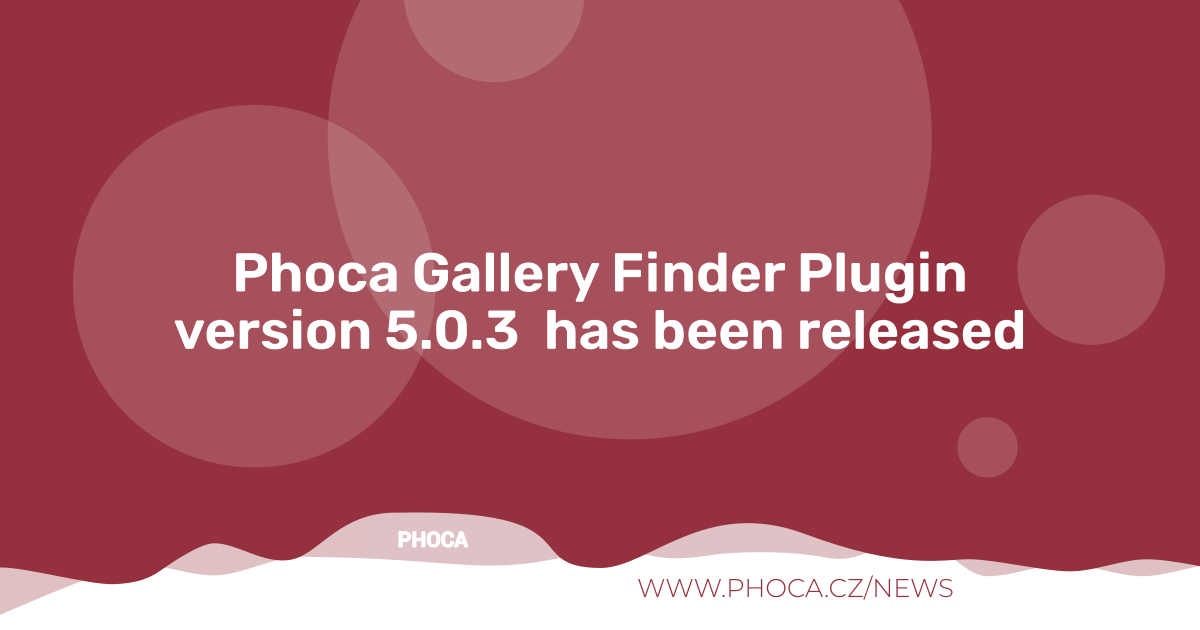
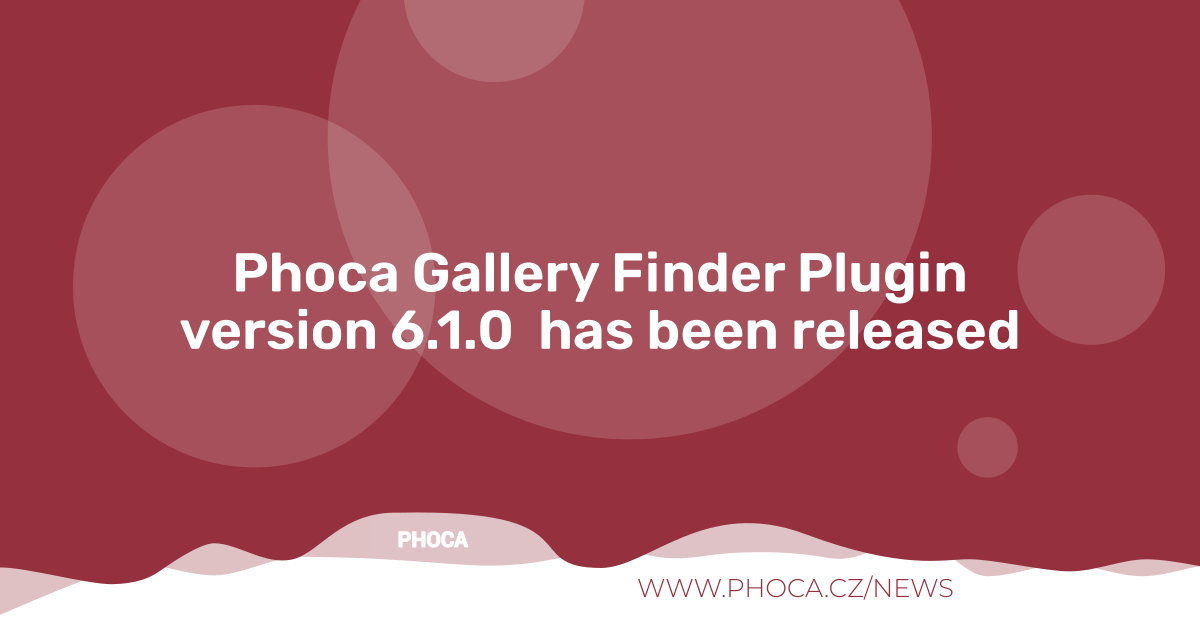
6.1.0

Changed region(s): [[0.1233, 0.4825, 0.8633, 0.573]]

diff --git a/phocagalleryimage.php b/phocagalleryimage.php
@@ -16,7 +16,7 @@ use Joomla\Registry\Registry;
 use Joomla\Component\Finder\Administrator\Indexer\Helper;
 
 defined('JPATH_BASE') or die;
-require_once JPATH_ADMINISTRATOR . '/components/com_finder/helpers/indexer/adapter.php';
+//require_once JPATH_ADMINISTRATOR . '/components/com_finder/helpers/indexer/adapter.php';
 
 class PlgFinderPhocagalleryImage extends Adapter
 {
@@ -66,7 +66,7 @@ class PlgFinderPhocagalleryImage extends Adapter
 		if ($context == 'com_phocagallery.phocagalleryimg' || $context == 'com_phocagallery.img' )
 		{
 			// Check if the access levels are different
-			if (isset($row->access) && !$isNew && $this->old_access != $row->access)
+			if (!$isNew && $this->old_access != $row->access)
 			{
 				// Process the change.
 				$this->itemAccessChange($row);
@@ -93,14 +93,12 @@ class PlgFinderPhocagalleryImage extends Adapter
 	public function onFinderBeforeSave($context, $row, $isNew)
 	{
 		// We only want to handle web links here
-		if ($context == 'com_phocagallery.phocagalleryimg' || $context == 'com_phocagallery.img' )
-		{
-			// Query the database for the old access level if the item isn't new
-			/*if (!$isNew)
-			{
-				$this->checkItemAccess($row);
-			}*/
-		}
+		if ($context == 'com_phocagallery.phocagalleryimg' || $context == 'com_phocagallery.img' ) {
+            // Query the database for the old access level if the item isn't new
+            if (!$isNew) {
+                $this->checkItemAccess($row);
+            }
+        }
 
 		// Check for access levels from the category
 		if ($context == 'com_phocagallery.phocagallerycat')
@@ -256,7 +254,7 @@ class PlgFinderPhocagalleryImage extends Adapter
 			->select('a.id, a.catid, a.title, a.alias, "" AS link, a.description AS summary, a.filename')
 			->select('a.metakey, a.metadesc, a.metadata, a.language, a.ordering')
 			->select('"" AS created_by_alias, "" AS modified, "" AS modified_by')
-			//->select('"" AS publish_start_date, "" AS publish_end_date')
+			->select('"" AS publish_start_date, "" AS publish_end_date')
 			->select('a.published AS state, a.params, a.approved, 1 as access')
 			->select('c.title AS category, c.alias as categoryalias, c.published AS cat_state, c.access AS cat_access');
 
@@ -264,7 +262,8 @@ class PlgFinderPhocagalleryImage extends Adapter
 		$case_when_item_alias = ' CASE WHEN ';
 		$case_when_item_alias .= $query->charLength('a.alias', '!=', '0');
 		$case_when_item_alias .= ' THEN ';
-		$a_id = $query->castAsChar('a.id');
+		//$a_id = $query->castAsChar('a.id');
+		$a_id = $query->castAs('CHAR', 'a.id');
 		$case_when_item_alias .= $query->concatenate(array($a_id, 'a.alias'), ':');
 		$case_when_item_alias .= ' ELSE ';
 		$case_when_item_alias .= $a_id.' END as slug';
@@ -273,7 +272,8 @@ class PlgFinderPhocagalleryImage extends Adapter
 		$case_when_category_alias = ' CASE WHEN ';
 		$case_when_category_alias .= $query->charLength('c.alias', '!=', '0');
 		$case_when_category_alias .= ' THEN ';
-		$c_id = $query->castAsChar('c.id');
+		//$c_id = $query->castAsChar('c.id');
+		$c_id = $query->castAs('CHAR', 'c.id');
 		$case_when_category_alias .= $query->concatenate(array($c_id, 'c.alias'), ':');
 		$case_when_category_alias .= ' ELSE ';
 		$case_when_category_alias .= $c_id.' END as catslug';